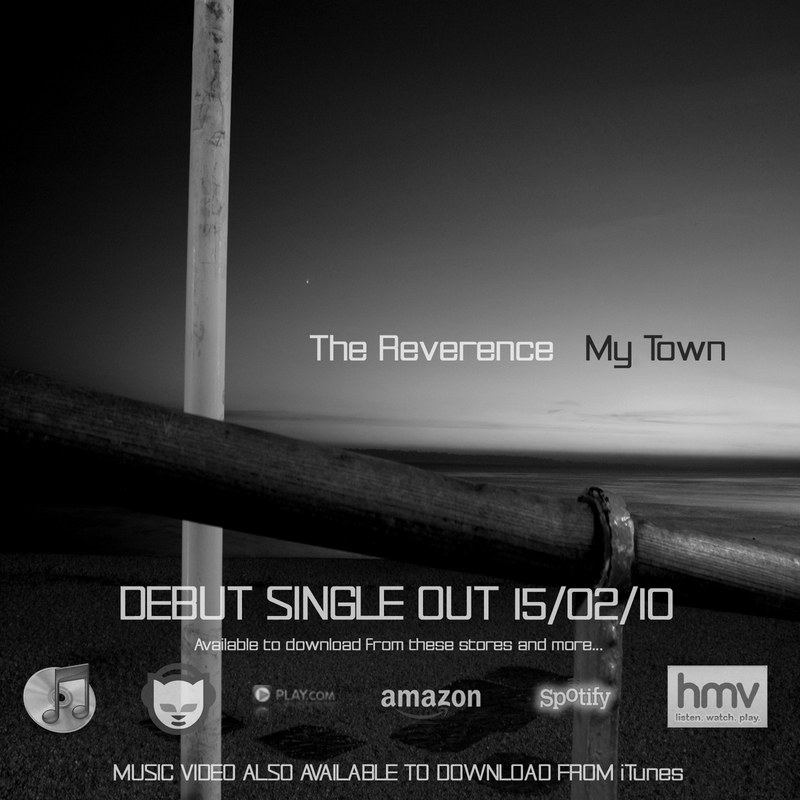
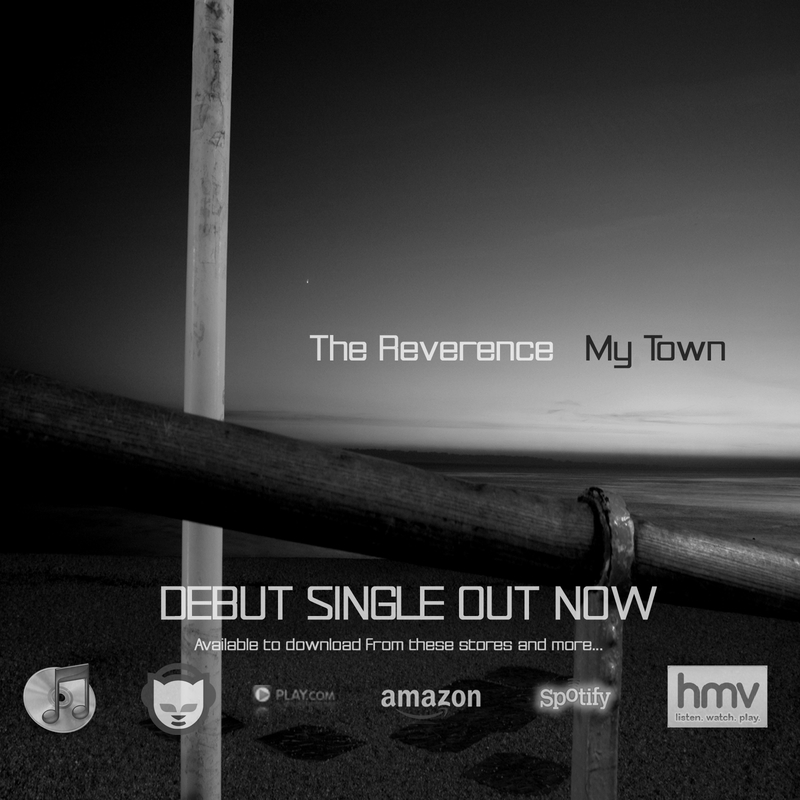
new flyer and itunes link

Changed region(s): [[0.125, 0.7188, 0.8438, 0.7812], [0.125, 0.9375, 0.8438, 1.0]]

diff --git a/index.html b/index.html
@@ -24,7 +24,7 @@ Description: A two-column fixed-width template suitable for small websites.
   <div id="splash">
     <img src="images/flyer_2.jpg" alt="" usemap="#flyer_map" />
     <map name="flyer_map">
-      <area shape="rect" coords="10,650,120,750" href="#" alt="Buy on iTunes" />
+      <area shape="rect" coords="10,650,120,750" href="http://itunes.apple.com/gb/album/my-town/id346505529" alt="Buy on iTunes" />
       
       <area shape="rect" coords="240,650,350,750" href="http://www.play.com/Music/MP3-Download-Track/4-/13443657/My-Town/Product.html" alt="Buy on Play" target="new" />
       <area shape="rect" coords="370,650,500,750" href="http://www.amazon.co.uk/My-Town/dp/B0030M2RVK/ref=sr_1_1?ie=UTF8&s=dmusic&qid=1264025616&sr=8-1" alt="Buy on Amazon" target="new" />
